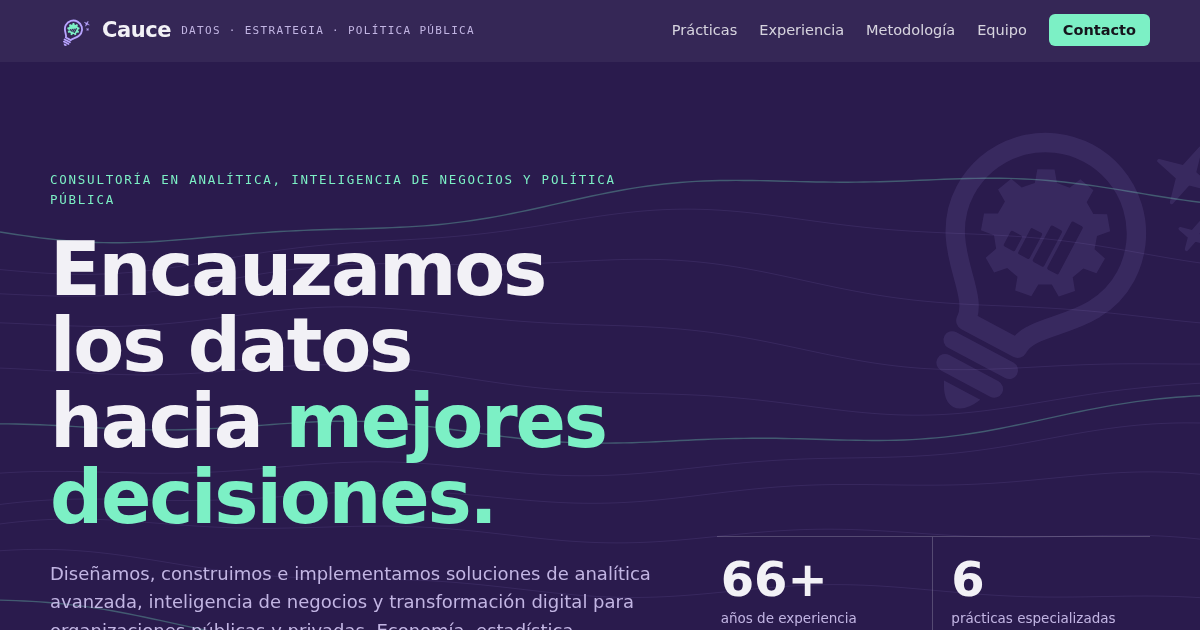
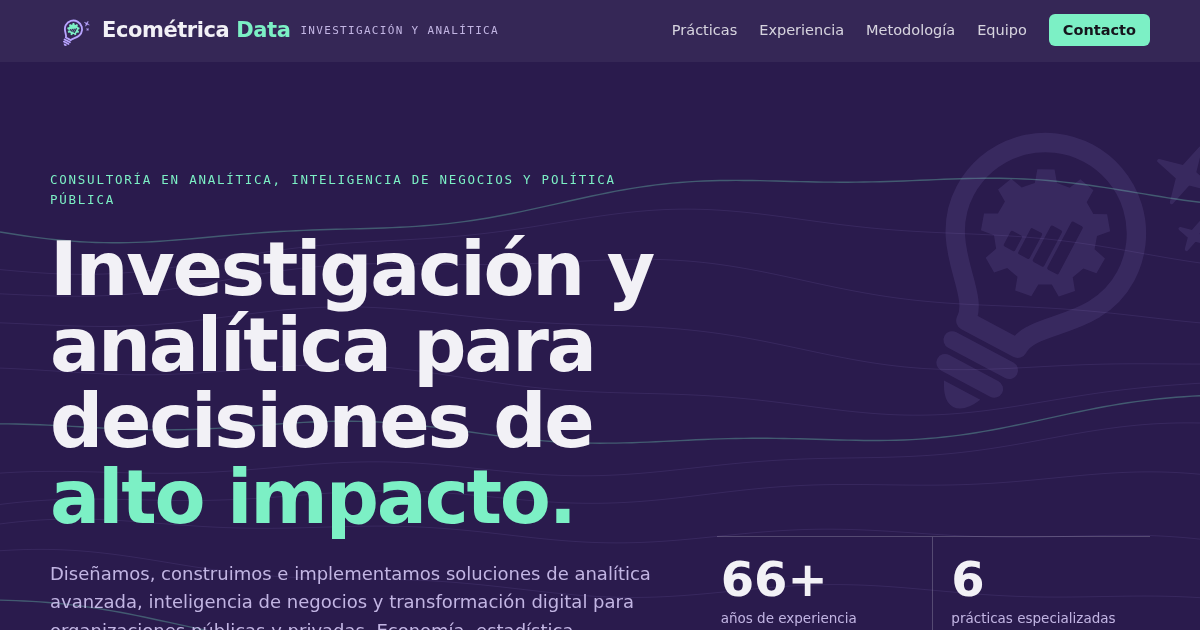
Add files via upload

Changed region(s): [[0.0308, 0.3619, 0.555, 0.8746], [0.0925, 0.0302, 0.4008, 0.0603]]

diff --git a/index.html b/index.html
@@ -3,11 +3,11 @@
 <head>
 <meta charset="utf-8">
 <meta name="viewport" content="width=device-width, initial-scale=1, viewport-fit=cover">
-<title>Cauce · Datos, estrategia y política pública</title>
-<meta name="description" content="Cauce es una firma de consultoría en analítica avanzada, inteligencia de negocios, política pública y transformación digital para organizaciones públicas y privadas en Colombia.">
+<title>Ecométrica Data · Investigación y analítica para decisiones de alto impacto</title>
+<meta name="description" content="Ecométrica Data es una firma de consultoría en analítica avanzada, inteligencia de negocios, política pública y transformación digital para organizaciones públicas y privadas en Colombia.">
 <meta property="og:type" content="website">
-<meta property="og:title" content="Cauce · Datos, estrategia y política pública">
-<meta property="og:description" content="Cauce es una firma de consultoría en analítica avanzada, inteligencia de negocios, política pública y transformación digital para organizaciones públicas y privadas en Colombia.">
+<meta property="og:title" content="Ecométrica Data · Investigación y analítica para decisiones de alto impacto">
+<meta property="og:description" content="Ecométrica Data es una firma de consultoría en analítica avanzada, inteligencia de negocios, política pública y transformación digital para organizaciones públicas y privadas en Colombia.">
 <meta property="og:image" content="og-cauce.png">
 <meta name="twitter:card" content="summary_large_image">
 <meta name="theme-color" content="#2A1B4D">
@@ -22,7 +22,7 @@
   <div class="wrap">
     <a class="brand" href="#inicio">
       <svg width="42" height="42" viewBox="0 0 120 120" aria-hidden="true"><mask id="lg-nav"><rect x="-40" y="-40" width="200" height="200" fill="white"/><g fill="black"><rect x="49.2" y="48.5" width="4.4" height="6" rx="0.6"/><rect x="54.8" y="44.5" width="4.4" height="10" rx="0.6"/><rect x="60.4" y="40.5" width="4.4" height="14" rx="0.6"/><rect x="66" y="36.0" width="4.4" height="18.5" rx="0.6"/></g></mask><g transform="translate(0 6) rotate(28 60 62) translate(12 12) scale(0.8)"><path d="M50 83 C50 72 29 65 29 44 A31 31 0 1 1 91 44 C91 65 70 72 70 83 Z" fill="none" stroke="#B8A4FF" stroke-width="6.6" stroke-linejoin="round"/><path d="M49 91 H71 M50.5 99 H69.5" fill="none" stroke="#B8A4FF" stroke-width="6" stroke-linecap="round"/><path d="M53 104.5 H67 Q64 111 60 111 Q56 111 53 104.5 Z" fill="#B8A4FF"/><path d="M60 26.4 L61.8 22.1 L67.5 23.3 L67.4 28 L71.3 30.5 L75.5 28.4 L79.1 33 L75.9 36.5 L77.3 40.9 L81.9 42 L81.7 47.8 L77 48.5 L75.2 52.8 L78.1 56.6 L74.1 60.9 L70.1 58.4 L66 60.5 L65.8 65.2 L60 66 L58.5 61.5 L54 60.5 L50.8 64 L45.9 60.9 L47.6 56.5 L44.8 52.8 L40.1 53.4 L38.3 47.8 L42.5 45.6 L42.7 40.9 L38.7 38.4 L40.9 33 L45.5 34 L48.7 30.5 L47.3 26 L52.5 23.3 L55.4 27 Z" fill="#7CF0C5" mask="url(#lg-nav)"/><path d="M93 -6.5 L95.1 1.9 L103.5 4 L95.1 6.1 L93 14.5 L90.9 6.1 L82.5 4 L90.9 1.9 Z" fill="#B8A4FF" stroke="#B8A4FF" stroke-width="1.2" stroke-linejoin="round"/><path d="M105 15.8 L106 20 L110.2 21 L106 22 L105 26.2 L104 22 L99.8 21 L104 20 Z" fill="#B8A4FF" stroke="#B8A4FF" stroke-width="1.2" stroke-linejoin="round"/></g></svg>
-      Cauce <small>Datos · Estrategia · Política pública</small>
+      <span class="wm">Ecométrica<span class="wm-a"> Data</span></span> <small>Investigación y analítica</small>
     </a>
     <ul>
       <li><a href="#practicas">Prácticas</a></li>
@@ -40,14 +40,14 @@
   <div class="wrap">
     <div>
       <span class="eyebrow">Consultoría en analítica, inteligencia de negocios y política pública</span>
-      <h1>Encauzamos los datos hacia <em>mejores decisiones.</em></h1>
+      <h1>Investigación y analítica para decisiones de <em>alto impacto.</em></h1>
       <p class="lede">Diseñamos, construimos e implementamos soluciones de analítica avanzada, inteligencia de negocios y transformación digital para organizaciones públicas y privadas. Economía, estadística, ingeniería de datos, derecho y gerencia, integrados en un solo equipo.</p>
       <div class="actions">
         <a class="btn primary" href="#contacto">Agendar una conversación</a>
         <a class="btn ghost" href="#casos">Conocer nuestra experiencia</a>
       </div>
     </div>
-    <div class="ledger" aria-label="Cauce en cifras">
+    <div class="ledger" aria-label="Ecométrica Data en cifras">
       <div><b>66+</b><span>años de experiencia combinada</span></div>
       <div><b>6</b><span>prácticas especializadas</span></div>
       <div><b>7</b><span>soluciones implementadas en tres sectores</span></div>
@@ -415,7 +415,7 @@
 <section id="valor">
   <div class="wrap">
     <div class="sec-head">
-      <span class="eyebrow">Por qué Cauce</span>
+      <span class="eyebrow">Por qué Ecométrica Data</span>
       <h2>Lo que nos diferencia</h2>
     </div>
     <div class="values">
@@ -459,8 +459,8 @@
 
 <footer>
   <div class="wrap">
-    <b class="foot-brand"><svg width="48" height="48" viewBox="0 0 120 120" aria-hidden="true"><mask id="lg-foot"><rect x="-40" y="-40" width="200" height="200" fill="white"/><g fill="black"><rect x="49.2" y="48.5" width="4.4" height="6" rx="0.6"/><rect x="54.8" y="44.5" width="4.4" height="10" rx="0.6"/><rect x="60.4" y="40.5" width="4.4" height="14" rx="0.6"/><rect x="66" y="36.0" width="4.4" height="18.5" rx="0.6"/></g></mask><g transform="translate(0 6) rotate(28 60 62) translate(12 12) scale(0.8)"><path d="M50 83 C50 72 29 65 29 44 A31 31 0 1 1 91 44 C91 65 70 72 70 83 Z" fill="none" stroke="#B8A4FF" stroke-width="6.6" stroke-linejoin="round"/><path d="M49 91 H71 M50.5 99 H69.5" fill="none" stroke="#B8A4FF" stroke-width="6" stroke-linecap="round"/><path d="M53 104.5 H67 Q64 111 60 111 Q56 111 53 104.5 Z" fill="#B8A4FF"/><path d="M60 26.4 L61.8 22.1 L67.5 23.3 L67.4 28 L71.3 30.5 L75.5 28.4 L79.1 33 L75.9 36.5 L77.3 40.9 L81.9 42 L81.7 47.8 L77 48.5 L75.2 52.8 L78.1 56.6 L74.1 60.9 L70.1 58.4 L66 60.5 L65.8 65.2 L60 66 L58.5 61.5 L54 60.5 L50.8 64 L45.9 60.9 L47.6 56.5 L44.8 52.8 L40.1 53.4 L38.3 47.8 L42.5 45.6 L42.7 40.9 L38.7 38.4 L40.9 33 L45.5 34 L48.7 30.5 L47.3 26 L52.5 23.3 L55.4 27 Z" fill="#7CF0C5" mask="url(#lg-foot)"/><path d="M93 -6.5 L95.1 1.9 L103.5 4 L95.1 6.1 L93 14.5 L90.9 6.1 L82.5 4 L90.9 1.9 Z" fill="#B8A4FF" stroke="#B8A4FF" stroke-width="1.2" stroke-linejoin="round"/><path d="M105 15.8 L106 20 L110.2 21 L106 22 L105 26.2 L104 22 L99.8 21 L104 20 Z" fill="#B8A4FF" stroke="#B8A4FF" stroke-width="1.2" stroke-linejoin="round"/></g></svg><span>Cauce · Datos, estrategia y política pública</span></b>
-    <span>© 2026 Cauce. Firma independiente de consultoría. Bogotá, Colombia.</span>
+    <b class="foot-brand"><svg width="48" height="48" viewBox="0 0 120 120" aria-hidden="true"><mask id="lg-foot"><rect x="-40" y="-40" width="200" height="200" fill="white"/><g fill="black"><rect x="49.2" y="48.5" width="4.4" height="6" rx="0.6"/><rect x="54.8" y="44.5" width="4.4" height="10" rx="0.6"/><rect x="60.4" y="40.5" width="4.4" height="14" rx="0.6"/><rect x="66" y="36.0" width="4.4" height="18.5" rx="0.6"/></g></mask><g transform="translate(0 6) rotate(28 60 62) translate(12 12) scale(0.8)"><path d="M50 83 C50 72 29 65 29 44 A31 31 0 1 1 91 44 C91 65 70 72 70 83 Z" fill="none" stroke="#B8A4FF" stroke-width="6.6" stroke-linejoin="round"/><path d="M49 91 H71 M50.5 99 H69.5" fill="none" stroke="#B8A4FF" stroke-width="6" stroke-linecap="round"/><path d="M53 104.5 H67 Q64 111 60 111 Q56 111 53 104.5 Z" fill="#B8A4FF"/><path d="M60 26.4 L61.8 22.1 L67.5 23.3 L67.4 28 L71.3 30.5 L75.5 28.4 L79.1 33 L75.9 36.5 L77.3 40.9 L81.9 42 L81.7 47.8 L77 48.5 L75.2 52.8 L78.1 56.6 L74.1 60.9 L70.1 58.4 L66 60.5 L65.8 65.2 L60 66 L58.5 61.5 L54 60.5 L50.8 64 L45.9 60.9 L47.6 56.5 L44.8 52.8 L40.1 53.4 L38.3 47.8 L42.5 45.6 L42.7 40.9 L38.7 38.4 L40.9 33 L45.5 34 L48.7 30.5 L47.3 26 L52.5 23.3 L55.4 27 Z" fill="#7CF0C5" mask="url(#lg-foot)"/><path d="M93 -6.5 L95.1 1.9 L103.5 4 L95.1 6.1 L93 14.5 L90.9 6.1 L82.5 4 L90.9 1.9 Z" fill="#B8A4FF" stroke="#B8A4FF" stroke-width="1.2" stroke-linejoin="round"/><path d="M105 15.8 L106 20 L110.2 21 L106 22 L105 26.2 L104 22 L99.8 21 L104 20 Z" fill="#B8A4FF" stroke="#B8A4FF" stroke-width="1.2" stroke-linejoin="round"/></g></svg><span><span class="wm">Ecométrica<span class="wm-a"> Data</span></span> · Investigación y analítica para decisiones de alto impacto</span></b>
+    <span>© 2026 Ecométrica Data. Firma independiente de consultoría. Bogotá, Colombia.</span>
   </div>
 </footer>
 <script src="main.js"></script>

diff --git a/styles.css b/styles.css
@@ -2,7 +2,7 @@
 body{margin:0}
 img{max-width:100%}
 [hidden]{display:none!important}
-/* Identidad Cauce: grafito · lavanda · menta */
+/* Identidad Ecométrica Data */
 :root{
   --ground:#F2F1F6;
   --surface:#FFFFFF;
@@ -246,6 +246,8 @@ section{padding-block:clamp(56px,8vw,104px)}
 
 .logo-tile{display:inline-grid;place-items:center;background:#FFFFFF;border-radius:10px;padding:3px;flex:none}
 .logo-tile.lg{border-radius:12px;padding:4px}
+.wm{font-family:var(--display);font-weight:800;letter-spacing:-.02em}
+.wm-a{color:var(--amber);font-weight:700}
 footer{background:var(--deep);color:var(--deep-muted);font-size:13.5px;padding-block:32px}
 footer .wrap{display:grid;gap:10px}
 footer b{color:var(--deep-ink);font-family:var(--display)}

diff --git a/LEEME.md b/LEEME.md
@@ -1,0 +1,17 @@
+# Ecométrica Data · sitio publicado
+
+Enlace público: https://dflorez09979.github.io/cauce-web/
+Repositorio: https://github.com/Dflorez09979/cauce-web
+
+Esta carpeta es copia exacta de lo que está publicado. Todos los archivos van en la raíz, sin subcarpetas.
+
+## Cómo actualizar el sitio
+
+1. Edita el archivo en tu computador (textos en `index.html`, colores en `styles.css`, fotos con el mismo nombre de archivo).
+2. Entra al repositorio → **Add file → Upload files** → arrastra el archivo modificado → **Commit changes**.
+3. En uno o dos minutos el enlace muestra la nueva versión.
+
+## Pendiente
+
+- Correo de contacto. Cuando esté listo, agrega esta fila en `index.html` dentro de la tarjeta de contacto, antes de la fila del WhatsApp:
+  `<div class="row"><label>Correo</label><div class="val"><span id="mail">tu@correo.com</span><button class="copy" type="button" data-copy="mail">Copiar</button></div></div>`
